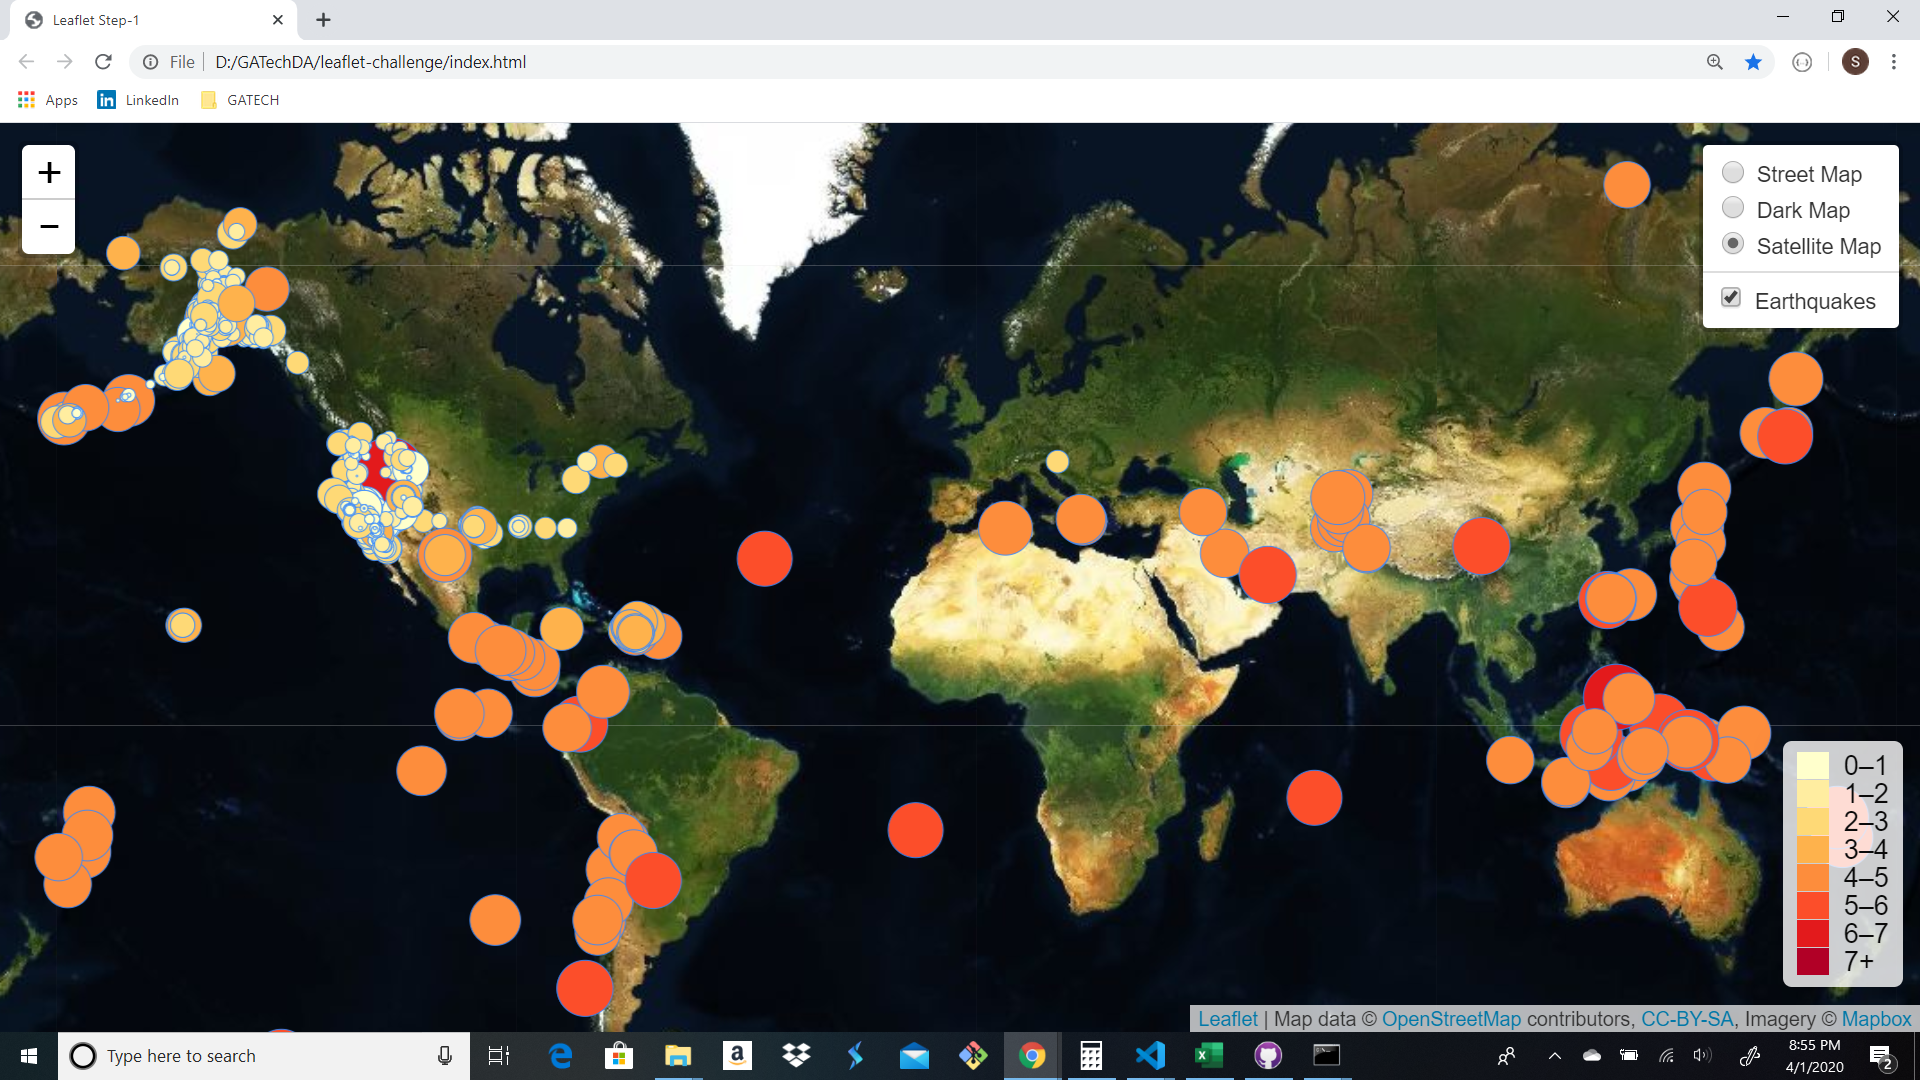
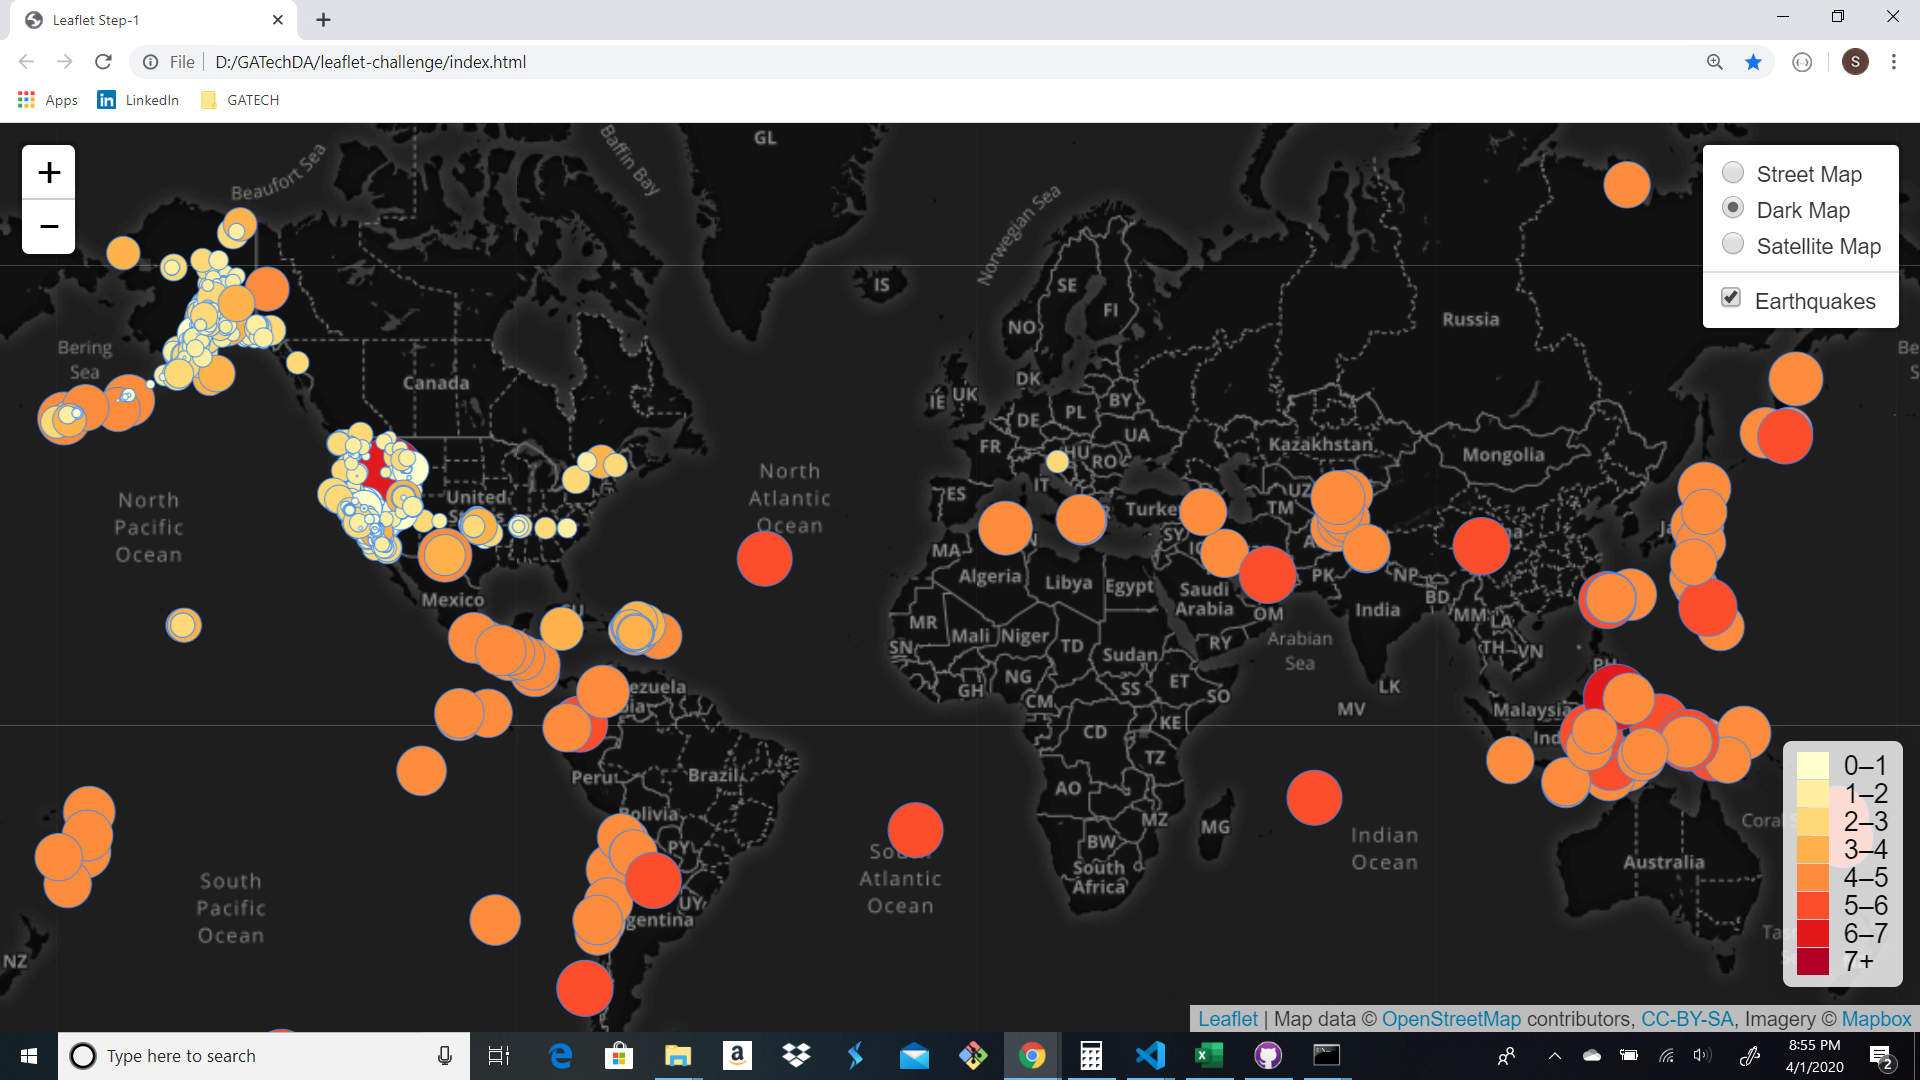
Earthquake Magnitude Images Updated

diff --git a/README.md b/README.md
@@ -1,2 +1,13 @@
-# leaflet-challenge
- 
+# Visualizing Data with Leaflet
+
+### leaflet-challenge
+---
+Welcome to the United States Geological Survey, or USGS for short! The USGS is responsible for providing scientific data about natural hazards, the health of our ecosystems and environment; and the impacts of climate and land-use change. Their scientists develop new methods and tools to supply timely, relevant, and useful information about the Earth and its processes.
+
+## Data Visualization
+
+The visualizations below show the Earthquakes and other Seismic activity over the last 7 days using Leaflet. The markers both increase in size and intensity as the magnitude of the event increases. Reference the legend on the bottom right for reference. You can also click on the marker and be provided with addidional information such as location, magnitude, date and time of the event. The legend on the top right allows you to select a Dark or Satellite Map if needed.
+
+![Earthquakes](Images/EQ1.png)
+
+![Earthquakes2](Images/EQ2.png)
